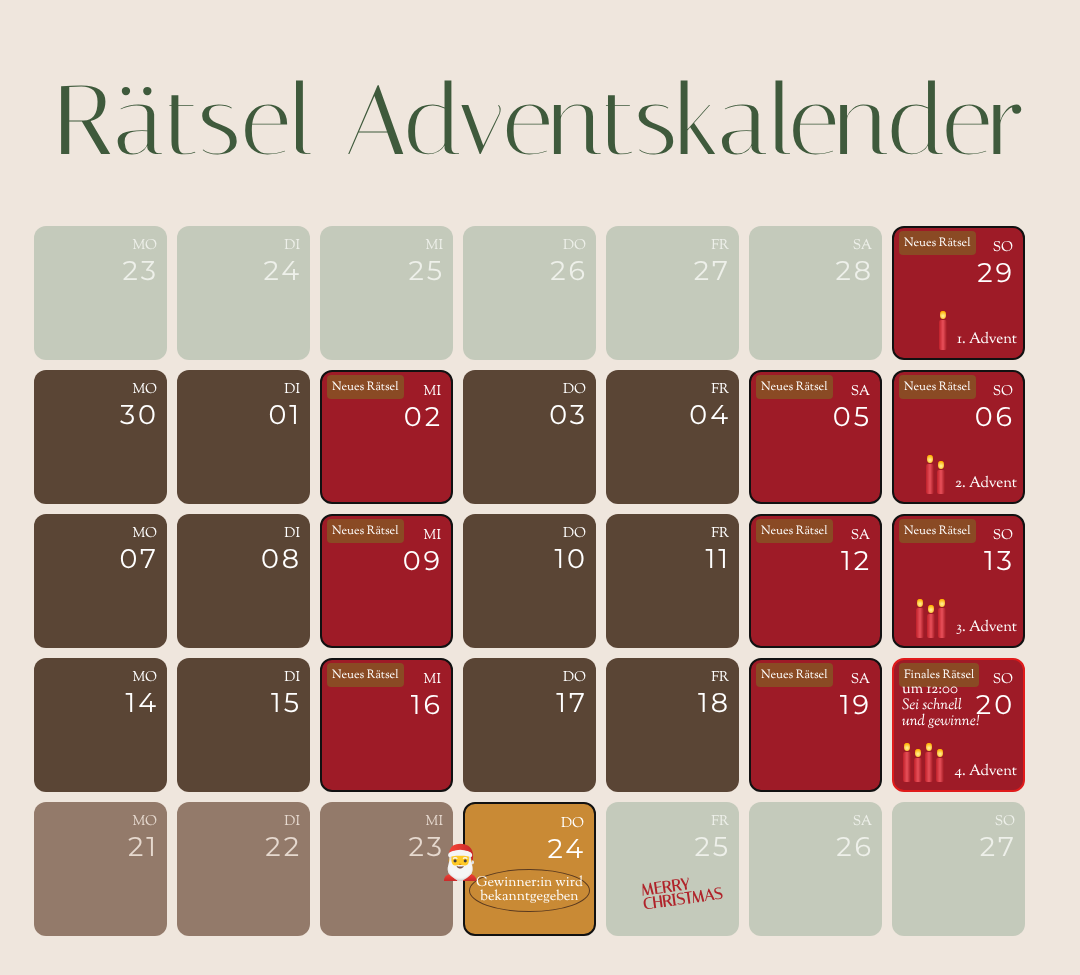
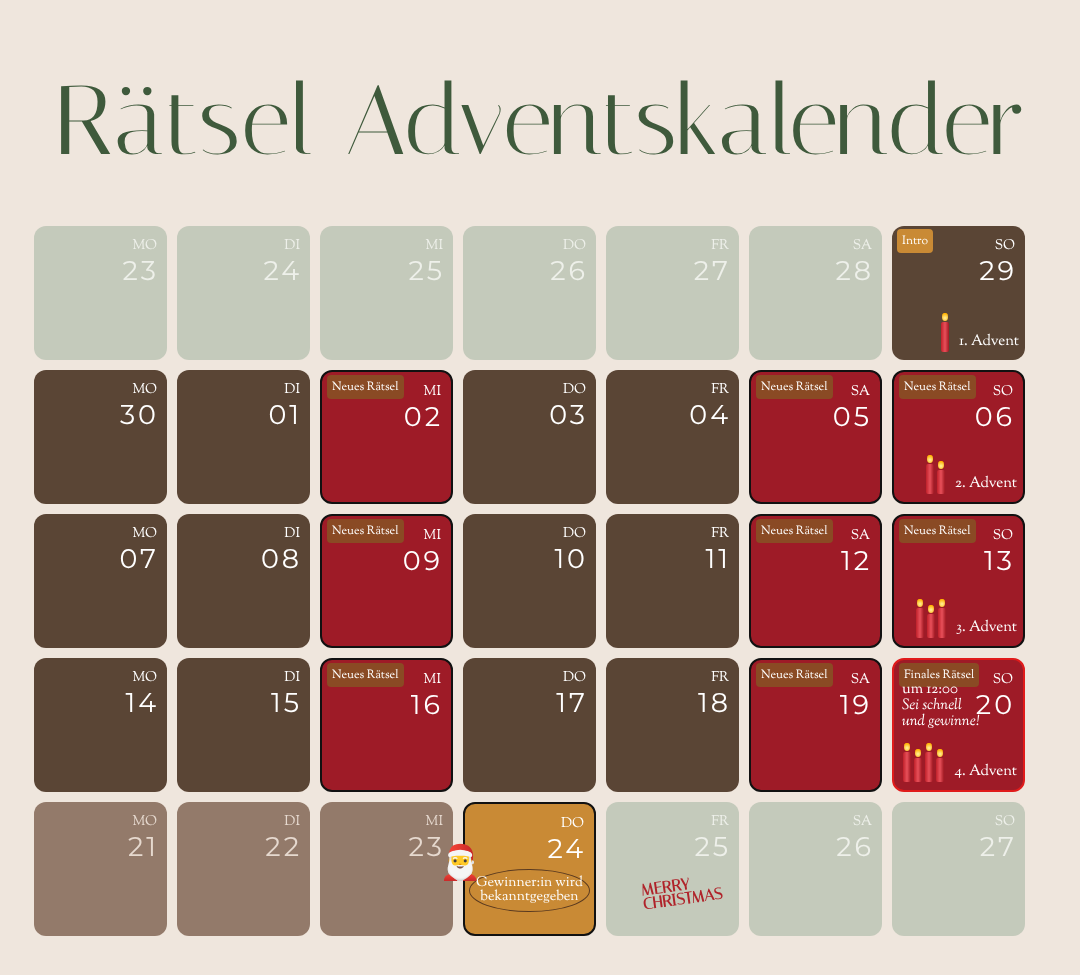
1. Advent als Intro statt Rätsel (#7)
Türchen 29.11. und Kalenderbild zeigen jetzt "Intro", Ablauf- und
FAQ-Text nennen Rätsel nur noch Mi/Sa/So.

Claude-Session: https://claude.ai/code/session_01R2yYeGE3srycXd6X95DTZZ

Changed region(s): [[0.825, 0.2154, 0.9472, 0.3692]]

diff --git a/index.html b/index.html
@@ -10,7 +10,7 @@
     <link href="https://fonts.googleapis.com/css2?family=Cinzel:wght@600;700&family=Fraunces:ital,opsz,wght@0,9..144,500;0,9..144,700;1,9..144,400&family=Inter:wght@400;500;600&display=swap" rel="stylesheet">
     <link href="https://cdn.jsdelivr.net/npm/bootstrap@5.3.0/dist/css/bootstrap.min.css" rel="stylesheet">
     <link rel="stylesheet" href="https://cdnjs.cloudflare.com/ajax/libs/font-awesome/5.15.4/css/all.min.css">
-    <link rel="stylesheet" href="styles.css?v=2026-3">
+    <link rel="stylesheet" href="styles.css?v=2026-4">
 </head>
 <body class="home">
 
@@ -91,7 +91,7 @@
             <h2 class="section-title">Der Kalender</h2>
             <p class="calendar-intro">Jeden Tag eine Geschichte von AIfred. An den grünen Türchen wartet ein Rätsel, am goldenen das Finale.</p>
             <div class="doors" id="doors">
-                <div class="door riddle" data-date="2026-11-29"><span class="door-tag">Rätsel</span><span class="door-wd">So</span><span class="door-num">29</span><span class="door-advent">1. Advent</span></div>
+                <div class="door intro" data-date="2026-11-29"><span class="door-tag">Intro</span><span class="door-wd">So</span><span class="door-num">29</span><span class="door-advent">1. Advent</span></div>
                 <div class="door story" data-date="2026-11-30"><span class="door-wd">Mo</span><span class="door-num">30</span></div>
                 <div class="door story" data-date="2026-12-01"><span class="door-wd">Di</span><span class="door-num">1</span></div>
                 <div class="door riddle" data-date="2026-12-02"><span class="door-tag">Rätsel</span><span class="door-wd">Mi</span><span class="door-num">2</span></div>
@@ -119,12 +119,13 @@
                 <div class="door winner" data-date="2026-12-24"><span class="door-tag">Gewinner:in</span><span class="door-wd">Do</span><span class="door-num">24</span></div>
             </div>
             <div class="door-legend">
+                <span><i class="dot intro"></i>Intro</span>
                 <span><i class="dot story"></i>Geschichte</span>
                 <span><i class="dot riddle"></i>Neues Rätsel</span>
                 <span><i class="dot final"></i>Finale am 4. Advent, 12 Uhr</span>
                 <span><i class="dot winner"></i>Gewinner:in</span>
             </div>
-            <a class="calendar-download" href="images/kalender2026.png" target="_blank">Kalender als Bild ansehen</a>
+            <a class="calendar-download" href="images/kalender2026.png?v=2026-4" target="_blank">Kalender als Bild ansehen</a>
         </div>
     </section>
 
@@ -141,7 +142,7 @@
                 <li>
                     <span class="step-num">2</span>
                     <h3>Rätseln</h3>
-                    <p>Tägliche Kurzgeschichten mit AIfred und Rätsel am 1. Advent sowie jeden Mittwoch, Samstag und Sonntag. Die Rätsel werden für alle gleichzeitig über WhatsApp Broadcast veröffentlicht und bauen aufeinander auf.</p>
+                    <p>Los geht's am 1. Advent mit einem Intro. Danach gibt es tägliche Kurzgeschichten mit AIfred und Rätsel jeden Mittwoch, Samstag und Sonntag. Die Rätsel werden für alle gleichzeitig über WhatsApp Broadcast veröffentlicht und bauen aufeinander auf.</p>
                 </li>
                 <li>
                     <span class="step-num">3</span>
@@ -189,7 +190,7 @@
             </details>
             <details class="faq">
                 <summary>Wie funktioniert es?</summary>
-                <div class="faq-answer"><p>Über WhatsApp Broadcast bekommst du täglich eine Kurzgeschichte und am 1. Advent sowie jeden Mittwoch, Samstag und Sonntag ein Rätsel.</p></div>
+                <div class="faq-answer"><p>Über WhatsApp Broadcast bekommst du ab dem 1. Advent (Intro) täglich eine Kurzgeschichte und jeden Mittwoch, Samstag und Sonntag ein Rätsel.</p></div>
             </details>
             <details class="faq">
                 <summary>Was brauche ich, um teilzunehmen?</summary>
@@ -293,6 +294,6 @@
     </footer>
 
     <script src="https://cdn.jsdelivr.net/npm/bootstrap@5.3.0/dist/js/bootstrap.bundle.min.js"></script>
-    <script src="script.js?v=2026-3"></script>
+    <script src="script.js?v=2026-4"></script>
 </body>
 </html>

diff --git a/styles.css b/styles.css
@@ -285,6 +285,8 @@ section { padding: 88px 0; }
     color: var(--berry);
 }
 .door.riddle { background: var(--forest); color: #f3d98e; }
+.door.intro { background: #fffaf0; color: var(--forest); box-shadow: inset 0 0 0 2px var(--gold); }
+.door.intro .door-tag { color: var(--gold); }
 .door.riddle .door-advent, .door.final .door-advent { color: #f3d98e; }
 .door.final { background: linear-gradient(135deg, #e2b85a, #9b7224); color: #fff; box-shadow: 0 0 0 3px #f3d98e66; }
 .door.winner { background: var(--berry); color: #fff; }
@@ -302,6 +304,7 @@ section { padding: 88px 0; }
 }
 .dot { display: inline-block; width: 12px; height: 12px; border-radius: 4px; margin-right: 6px; vertical-align: -1px; }
 .dot.story { background: #e8dcc4; }
+.dot.intro { background: #fffaf0; box-shadow: inset 0 0 0 2px var(--gold); }
 .dot.riddle { background: var(--forest); }
 .dot.final { background: #c9962f; }
 .dot.winner { background: var(--berry); }
